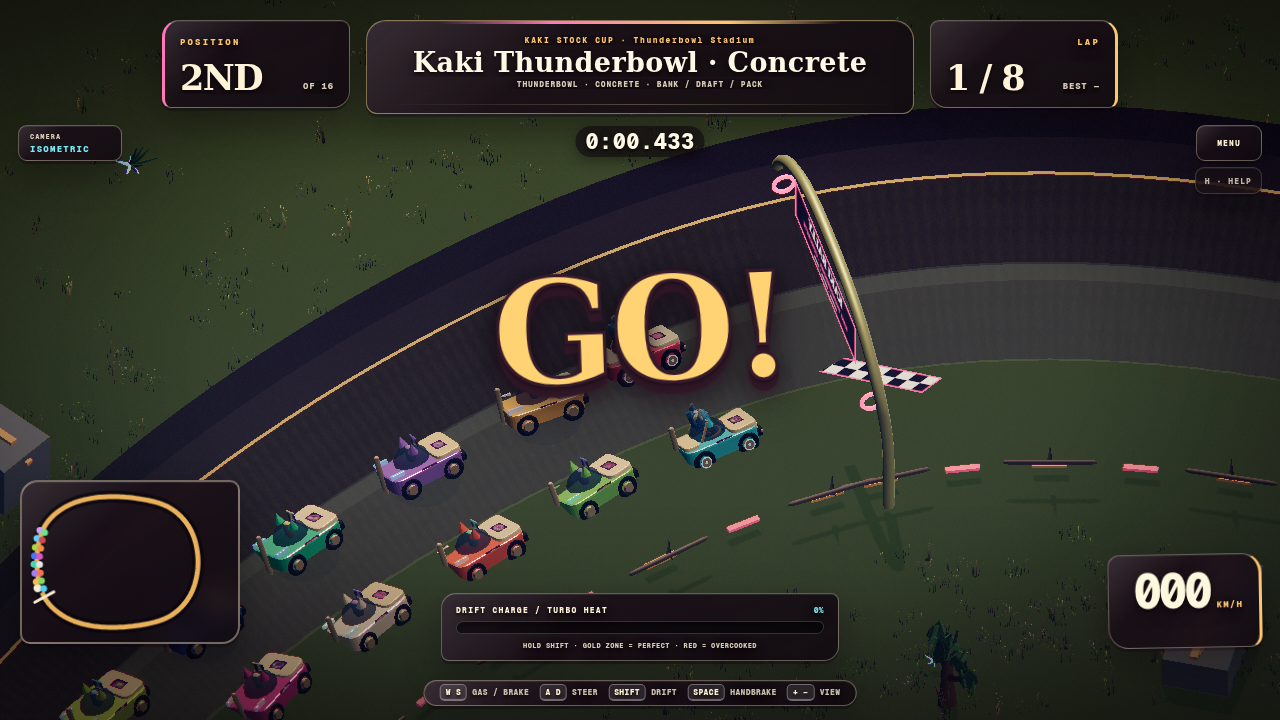
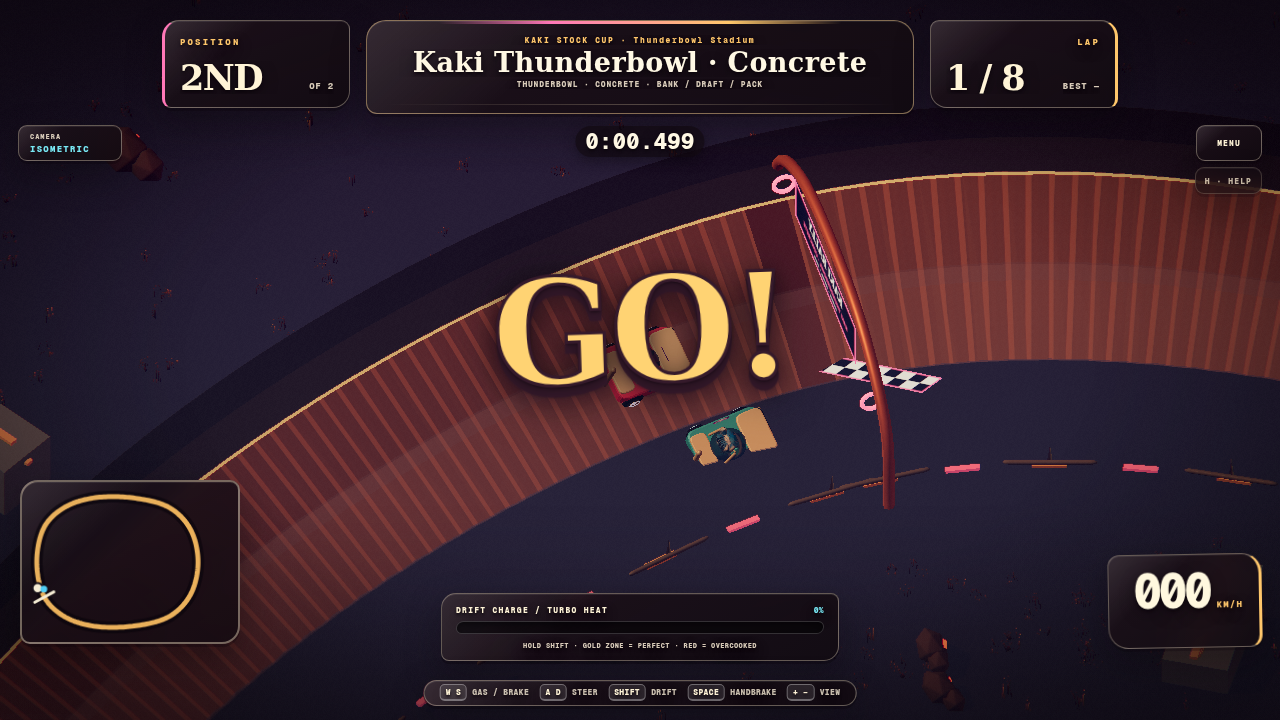
Fix normal-car bank roll orientation on Thunderbowl banks
Invert track bank slope at the shared chassis presentation seam so cars lean into authored banks instead of away from them. Monster Arena already converted this sign in its contact solver; normal racing cars now match.

diff --git a/docs/gauntlet-progress.html b/docs/gauntlet-progress.html
@@ -82,7 +82,7 @@
         <h1>Make the road feel <em>earned.</em></h1>
         <p class="lede">A candid implementation log for the Kaki Rally expansion. This page is intentionally outside the production graph: it records the running artifact, the evidence that supports it, and the sharpest remaining gap.</p>
       </div>
-      <div class="stamp"><span>Active wave</span><strong id="stamp-wave">Wave 1.1 / feel repair</strong><span id="stamp-time">Loading timestamp…</span></div>
+      <div class="stamp"><span>Active wave</span><strong id="stamp-wave">Wave 1.2 / bank orientation</strong><span id="stamp-time">Loading timestamp…</span></div>
     </header>
 
     <section>
@@ -95,10 +95,10 @@
     </section>
 
     <section>
-      <div class="section-head"><h2>Current artifact</h2><span>focused live probes after Wave 1.1</span></div>
+      <div class="section-head"><h2>Current artifact</h2><span>focused live probes after Wave 1.2</span></div>
       <div class="evidence">
         <figure><a href="qa/fix-drift-fishtail-qa.png"><img src="qa/fix-drift-fishtail-qa.png" alt="Drift Attack fishtail QA capture"></a><figcaption>Drift / Comet · rear slip + judged angle</figcaption></figure>
-        <figure><a href="qa/fix-stock-banked-concrete.png"><img src="qa/fix-stock-banked-concrete.png" alt="Thunderbowl concrete banked corner capture"></a><figcaption>Thunderbowl / concrete · chassis follows -0.464 rad bank</figcaption></figure>
+        <figure><a href="qa/fix-stock-banked-concrete.png"><img src="qa/fix-stock-banked-concrete.png" alt="Thunderbowl concrete banked corner capture"></a><figcaption>Thunderbowl / concrete · bank slope -0.464 → chassis roll +0.464</figcaption></figure>
         <figure><a href="qa/repro-dune-landing-blue.png"><img src="qa/repro-dune-landing-blue.png" alt="Dune landing camera failure baseline"></a><figcaption>Before / Dune landing · poisoned ISO frame</figcaption></figure>
         <figure><a href="qa/fix-dune-landing-isometric.png"><img src="qa/fix-dune-landing-isometric.png" alt="Dune landing camera fixed capture"></a><figcaption>After / Dune landing · finite ISO frame and terrain visible</figcaption></figure>
       </div>
@@ -121,7 +121,7 @@
         <dt>Visual/lifecycle smoke</dt><dd>30 configs / 585 + 88</dd>
         <dt>Browser matrix</dt><dd>WebGL + WebGPU pass</dd>
         <dt>Fishtail probe</dt><dd>0.392 rad split / caught</dd>
-        <dt>Bank visual probe</dt><dd>-0.464 → -0.463 rad</dd>
+        <dt>Bank visual probe</dt><dd>-0.464 → +0.464 rad</dd>
         <dt>Dune landing probe</dt><dd>finite / ISO / sky-safe</dd>
         <dt>Raid live probe</dt><dd>start / penalty / finish pass</dd>
         <dt>Save/boundaries</dt><dd>pass / 116 modules</dd>
@@ -131,7 +131,7 @@
         <dt>SwiftShader probe</dt><dd>168 draws / 787k tris</dd>
         <dt>Physical FPS claim</dt><dd>baseline only</dd>
       </dl></div>
-      <div class="panel"><div class="section-head"><h2>Focused verdict</h2><span>fresh regression critique</span></div><p class="verdict">Wave 1.1 closes the three reported defects: Drift now has a rear-slip yaw state with throttle breakaway and countersteer recovery; normal rally cars carry the authoritative oval bank into visible chassis roll; and Dune landing FX remain a finite object through the isometric camera. The largest remaining gap is human hardware feel: this environment’s managed browser path is SwiftShader, so native GPU frame time, physical controller granularity, and long-run art/audio review remain open.<small>Evidence reviewed: before/after landing pixels, live bank roll telemetry, deterministic fishtail/countersteer probe, full npm test, focused WebGL/WebGPU browser matrix, and source/lifecycle inspection. This is a verified repair pass, not a claim of final AAA parity.</small></p></div>
+      <div class="panel"><div class="section-head"><h2>Focused verdict</h2><span>fresh regression critique</span></div><p class="verdict">Wave 1.2 corrects the Thunderbowl sign while preserving the Wave 1.1 feel and camera repairs: Drift still has a rear-slip yaw state with throttle breakaway and countersteer recovery; normal rally cars now lean into the authored bank instead of away from it; and Dune landing FX remain a finite object through the isometric camera. The largest remaining gap is human hardware feel: this environment’s managed browser path is SwiftShader, so native GPU frame time, physical controller granularity, and long-run art/audio review remain open.<small>Evidence reviewed: signed concrete/clay bank probes, before/after landing pixels, deterministic fishtail/countersteer probe, full npm test, focused WebGL/WebGPU browser matrix, and source/lifecycle inspection. This is a verified repair pass, not a claim of final AAA parity.</small></p></div>
     </section>
 
     <section>

diff --git a/src/racing/physics.js b/src/racing/physics.js
@@ -94,7 +94,12 @@ export function rallyChassisRoll(kart, steer = 0, monster = false) {
       ? _finiteOr(kart.contactRoll ?? kart.groundRoll, 0)
       : _finiteOr(kart.stuntRoll, 0);
   }
-  const bankRoll = grounded ? _finiteOr(kart.contactRoll ?? kart.groundRoll, 0) : 0;
+  // Track banks are authored as a cross-track height slope: positive bank
+  // raises the local left edge. THREE's positive Z rotation raises the local
+  // right edge instead, so normal-car presentation needs the opposite sign.
+  // Monster contacts already perform this conversion in their support-plane
+  // solver and take the early return above.
+  const bankRoll = grounded ? -_finiteOr(kart.groundRoll, 0) : 0;
   const bodyRoll = grounded
     ? _finiteOr(kart.bodyRoll, 0)
     : _finiteOr(kart.airRoll, 0);

diff --git a/docs/QA_REPORT.md b/docs/QA_REPORT.md
@@ -306,7 +306,8 @@ a second session or renderer:
   `2.79 m/s` and reversed the yaw rate.
 - Normal rally-car visuals now consume the same authoritative bank/contact
   roll as the oval physics. The concrete Thunderbowl probe measured
-  `groundRoll -0.464` and visible chassis roll `-0.463`.
+  `groundRoll -0.464`; the later sign repair records visible chassis roll
+  `+0.464` below.
 - Dune landing camera FX remain a finite `{ shake, roll, punch, phase }`
   object, decay in the Dune fixed step, and are sanitized at the isometric
   camera boundary. The prior landing repro emitted non-finite camera
@@ -322,3 +323,21 @@ are `docs/qa/repro-dune-landing-blue.png`,
 `docs/qa/fix-drift-fishtail-qa.png`. These are SwiftShader/managed-browser
 behavior captures; native GPU frame time, physical-controller granularity,
 phone thermals, and human feel review remain open.
+
+## Wave 1.2 bank orientation repair — 2026-07-31
+
+The Thunderbowl follow-up corrected the normal-car banking sign at the shared
+presentation seam. Track banks are cross-track height slopes, while positive
+Three.js Z roll raises the opposite side of a car; Monster Arena had already
+converted this sign in its contact solver, but normal racing cars had not.
+
+- Concrete browser probe: `groundRoll -0.464` now renders visible chassis roll
+  `+0.464` on the same grounded corner.
+- Clay browser probe: `groundRoll -0.307` now renders visible chassis roll
+  `+0.306`; both variants remain on-road with no page or console errors.
+- Deterministic coverage now asserts both bank signs and airborne suppression,
+  so future bank presentation changes cannot silently flip the car again.
+
+The full `npm test` suite and the concrete/clay local WebGL browser probes pass.
+The managed browser remains SwiftShader evidence rather than native GPU or
+physical-controller performance evidence.

diff --git a/docs/ARCHITECTURE.md b/docs/ARCHITECTURE.md
@@ -304,6 +304,9 @@ the shared `physics.js` integrator and is enabled only by Drift handling
 profiles; the normal racing session still owns input, charge/boost lifecycle,
 judging, camera, and cleanup. `rallyChassisRoll()` combines bank/contact roll,
 weight transfer, and steering lean so the visible car follows the same bank
-authority sampled by contact physics. Dune camera FX are an object contract
-owned by `duneMode.js`; `sanitizeIsometricCameraFx()` and the terrain-frame
-guard provide a defensive boundary for stale or malformed payloads.
+authority sampled by contact physics. Normal track banks are converted from
+their cross-track height-slope sign at this presentation seam; Monster Arena
+contact already performs that conversion before exposing `contactRoll`. Dune
+camera FX are an object contract owned by `duneMode.js`;
+`sanitizeIsometricCameraFx()` and the terrain-frame guard provide a defensive
+boundary for stale or malformed payloads.
